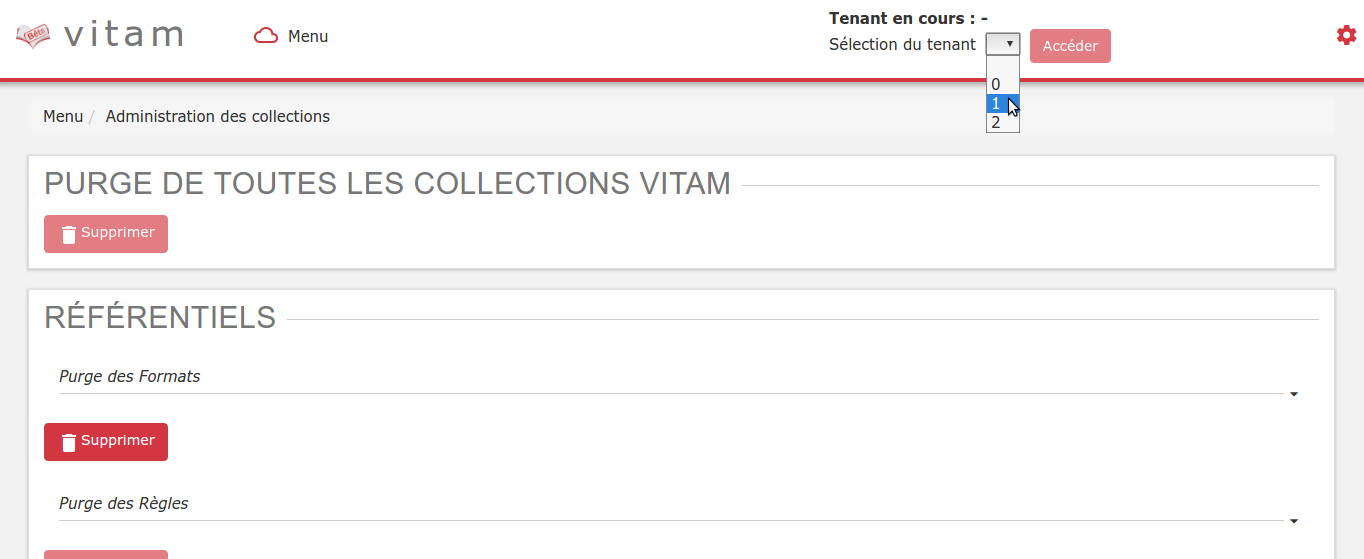
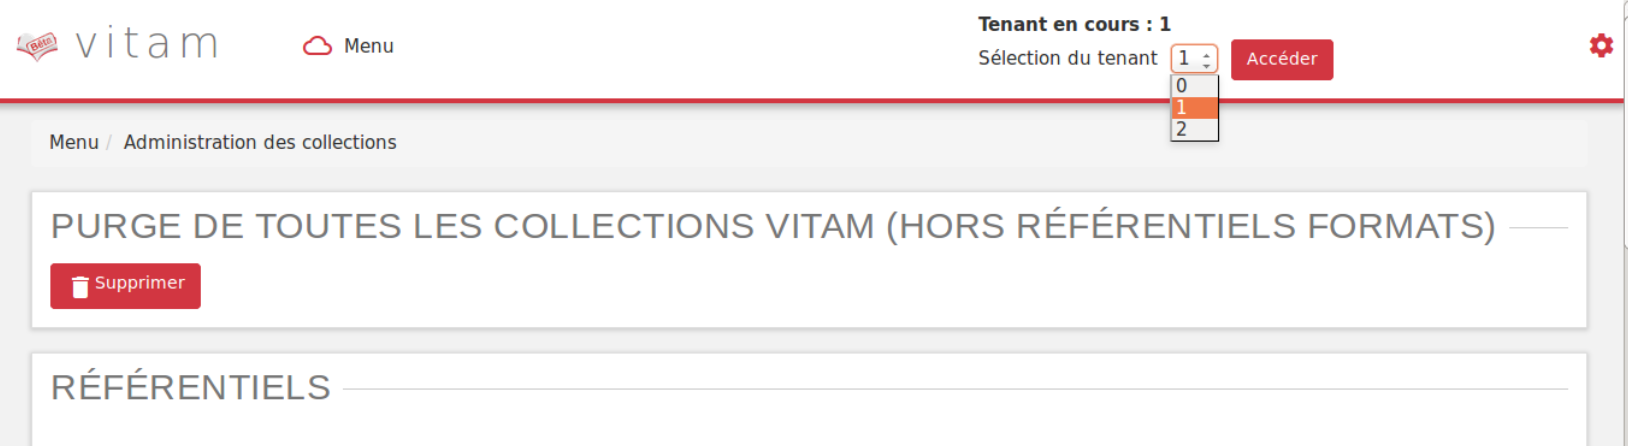
R4_manuel_recette_update

diff --git a/doc/fr/ihm-recette/collections.rst b/doc/fr/ihm-recette/collections.rst
@@ -1,7 +1,9 @@
 Administration des collections
 ##############################
 
-L'IHM de recette permet de supprimer certains ou tous les référentiels / journaux / objets dans le but de recetter VITAM ou de faire des tests variés pour éprouver la stabilité du système.
+L'administration des collections permet de supprimer certains ou tous les référentiels / journaux / objets dans le but de recetter VITAM ou de faire des tests variés pour éprouver la stabilité du système.
+
+L'utilisateur y accède par le menu, en cliquant sur "Administration des collections."
 
 .. image:: images/RECETTE_admin_collections.png
 
@@ -10,12 +12,12 @@ Action de suppression
 
 Chaque bouton "supprimer" est situé sous le titre de son action.
 Lors du clic sur un des boutons "supprimer", une fenêtre modale apparaît et demande de confirmer l'action de suppression.
-Deux choix sont proposés:
+Il existe deux types de purge:
 
 Purge de toutes les collections de la solution logicielle Vitam
 ===============================================================
 
-La purge de toutes les collections correspond à la suppression de tous les référentiels, de tous les journaux ainsi que de tous les objets et unités archivistiques à l'exeption du référentiel des formats.
+La purge de toutes les collections correspond à la suppression de tous les référentiels, de tous les journaux ainsi que de tous les objets et unités archivistiques à l'exception du référentiel des formats.
 Suite à cette opération, chaque IHM correspondante est vide de contenu et plus aucune archive n'est présente dans VITAM.
 
 Purge des référentiels
@@ -25,18 +27,20 @@ Il est possible de supprimer isolément un référentiel :
 
 * Un clic sur "Annuler", annule la demande de suppression, la fenêtre modale se ferme et rien ne se passe
 * Un clic sur "Vider", valide la demande de suppression, la fenêtre modale se ferme et la suppression est effectuée
+  
+.. image:: images/administration_purge_pop_up.png
 
 Une fois la suppression effectuée, un message de confirmation s'affiche dans une fenêtre modale.
 
+.. image:: images/administration_purge_pop_up_ok.png
+
 **Référentiel des formats**
 
-Le référentiel des formats de la solution logicielle Vitam est supprimé **pour tous les tenants**. L'IHM du référentiel de formats est vide de contenu. Sans référentiel de formats, aucun SIP ne pourra être importé dans le SAE.
-
+Le référentiel des formats de la solution logicielle Vitam est supprimé **pour tous les tenants**. L'IHM du référentiel de formats est vide de contenu. Sans référentiel de formats, aucun SIP ne pourra être importé dans la solution logicielle Vitam.
 
 **Référentiel des règles de gestion**
 
-Le référentiel des règles de gestion de la solution logicielle Vitam est supprimé. L'IHM des règles de gestion est vide de contenu. Sans référentiel des règles de gestion, aucun SIP ne pourra être importé dans le SAE.
-
+Le référentiel des règles de gestion de la solution logicielle Vitam est supprimé. L'IHM des règles de gestion est vide de contenu. Sans référentiel des règles de gestion, aucun SIP ne pourra être importé dans la solution logicielle Vitam.
 
 **Registre des fonds**
 
@@ -51,7 +55,7 @@ Purge des journaux
 Tous les journaux du cycle de vie des unités archivistiques sont supprimés de la solution logicielle Vitam. L'IHM de chaque "Journal du cycle de vie" d'une unité archivistique est vide de contenu.
 
 
-**Journal du cycle de vie** (objets)
+**Journal du cycle de vie** (groupes d'objets)
 
 Tous les journaux du cycle de vie des objets sont supprimés de la solution logicielle Vitam. L'IHM de chaque "Journal du cycle de vie" d'un objet est vide de contenu.
 
@@ -74,12 +78,10 @@ Tous les objets sont supprimés de la solution logicielle Vitam. L'IHM "Détail 
 Purge des contrats
 ==================
 
-La suppression de contrats est opérée par tenant. L'utilisateur doit donc sélectionner le tenant pour lequel il souhaite supprimer les contrats afin d'accéder à cette fonctionnalité.
-
 **Contrats d'accès**
 
-Tous les contrats d'accès du tenant sélectionné sont supprimés de la solution logicielle Vitam. L'IHM "Contrats d'accès" est vide de contenu.
+Tous les contrats d'accès sont supprimés de la solution logicielle Vitam. L'IHM "Contrats d'accès" est vide de contenu.
 
 **Contrats d'entrée**
 
-Tous les contrats d'entrée du tenant sélectionné sont supprimés de la solution logicielle Vitam. L'IHM "Contrats d'entrée" est vide de contenu.
+Tous les contrats d'entrée sont supprimés de la solution logicielle Vitam. L'IHM "Contrats d'entrée" est vide de contenu.

diff --git a/doc/fr/ihm-recette/fonctionnel.rst b/doc/fr/ihm-recette/fonctionnel.rst
@@ -25,7 +25,7 @@ La page est divisée en deux parties :
 **Boutons de gestion**
 
   * Bouton "Lancer les tests" : permet de rejouer les tests configurés. Ceci donnera lieu à la création d'un nouveau rapport.
-  * Bouton "Mise à jour référentiel" : permet de récupérer les derniers fichiers de configuration des tests depuis git (gestionnaire de sources). Ainsi, si un utilisateur a ajouté des tests et que ceux-ci ont été intégrés à git, le fait de cliquer sur ce bouton permettera de les prendre en compte au prochain clic sur le bouton "Lancer les Tests".
+  * Bouton "Mise à jour référentiel" : permet de récupérer les derniers fichiers de configuration des tests depuis "Git" (gestionnaire de sources). Ainsi, si un utilisateur a ajouté des tests et que ceux-ci ont été intégrés à git, le fait de cliquer sur ce bouton permettera de les prendre en compte au prochain clic sur le bouton "Lancer les Tests".
 
 **Résultat des derniers tests**
 
@@ -34,7 +34,7 @@ Les résultats de tests sont affichés dans un tableau à deux colonnes :
   * Rapport
   * Détail
     
-Chaque ligne représente le rapport issu d'une campagne de tests. La colonne rapport indique le nom du rapport. Celui-ci est constitué de la façon suivante : report_AAAAMMJJ_HHmmss.json. Ainsi le rapport correspondant à la dernière campagne de tests se trouve au-dessus de la liste. 
+Chaque ligne représente le rapport issu d'une campagne de tests. La colonne "Rapport" indique le nom du rapport. Celui-ci est constitué de la façon suivante : report_AAAAMMJJ_HHmmss.json. Ainsi le rapport correspondant à la dernière campagne de tests se trouve au-dessus de la liste. 
 
 La colonne détail affiche simplement la mention "accès au détail". 
 
@@ -62,7 +62,7 @@ La partie résumé comporte les trois indications suivantes :
 
 Chaque ligne du tableau représente le résultat d'un test. Celle-ci est sur fond vert lorsque le test est en succès, sur fond rouge lorsqu'il est en échec.
 
-Ci-après l'exemple de lignes correspondant à un test en succès.
+Ci-après l'exemple de lignes correspondant à un test en succès. Par défaut, les tests en échec s'affichent en premier.
 
 .. image:: images/RECETTE_detail_test_OK.png
 

diff --git a/doc/fr/ihm-recette/performance.rst b/doc/fr/ihm-recette/performance.rst
@@ -1,0 +1,41 @@
+Tests de performance
+####################
+
+Principe
+========
+
+Les tests de performance consistent à réaliser plusieurs fois l'entrée d'un SIP et d'en mesurer le temps. Ces entrées peuvent être réalisées par une ou plusieurs tâches parallèles. 
+
+Champs disponibles
+==================
+
+L'IHM est constituée de trois champs :
+
+* Liste des SIP : liste des SIP disponibles pour réaliser le test. Ces SIP sont ceux déposés dans le dépôt vitam-itest. Il n'est possible de sélectionner qu'un SIP à la fois.
+* Nb Thread : Permet de définir le nombre de tâches parallèles qui exécuteront les entrées.
+* Nb total : Permet de définir le nombre total d'entrées à réaliser.
+
+Un bouton "lancer" permet d’exécuter le test de performance.
+
+.. image:: images/performance_champs_disponibles.png
+
+Résultats
+=========
+
+Les résultats sont disponibles dans la section en bas de la page.
+
+Chaque ligne représente un test de performance. Le nom du test est formaté de la façon suivante : report_AAAAMMJJ_HHmmSS.csv. Le bouton de téléchargement permet de récupérer le fichier csv contenant les données du test.
+
+.. image:: images/performance_resultats.png
+
+Chaque ligne du csv représente une entrée. Les colonnes sont :
+
+* OperationID
+* PROCESS_SIP_UNITARY
+* SANITY_CHECK_SIP	
+* CHECK_CONTAINER	
+* STP_SANITY_CHECK_SIP	
+* STP_UPLOAD_SIP	
+* STP_INGEST_CONTROL_SIP
+ 
+La première contient le GUID de l'opération d'entrée. Les autres colonnes indique le temps en millisecondes qui a été nécessaire pour passer l'étape.

diff --git a/doc/fr/ihm-recette/recette.rst b/doc/fr/ihm-recette/recette.rst
@@ -7,7 +7,7 @@ Principes généraux
 Avertissement
 -------------
 
-L'IHM de recette est développée à des fins de tests uniquement.
+L'IHM de recette est développée à des fins de test uniquement.
 
 **Elle n'a aucunement vocation à être utilisée en production**
 
@@ -34,7 +34,7 @@ Titre des onglets
 
 Sur IHM recette, le titre des pages est celui du dernier nœud du fil d’Ariane, précédé du mot “Recette -”. Par exemple :
 
-* Recette - Test SOAP-UI
+* Recette - Test Fonctionnels
 * Recette - Administration des collections
 
 Sélection d'un tenant
@@ -43,7 +43,7 @@ Sélection d'un tenant
 Lors de la connexion, l'utilisateur n'est positionné sur aucun tenant.
 De ce fait, ses actions d'administration sont restreintes car celles-ci sont pour la plupart liées à un tenant. Par défaut, un certain nombre de boutons sont donc grisés et inactifs.
 
-Pour sélectionner un tenant, il suffit de choisir celui désiré dans le menu déroulant en haut à droite de l'écran et de valider sa sélection.
+Pour sélectionner un tenant, il suffit de choisir celui désiré dans le menu déroulant en haut à droite de l'écran et de valider sa sélection en cliquant sur le bouton "Accéder".
 
 .. image:: images/selection_tenant.png
 
@@ -65,6 +65,7 @@ Le menu de navigation contient les entrées suivantes :
   * Transfert (test de performance)
   * Sécurisation d'un journal des opérations
   * Tests fonctionnels
+  * Tests requêtes DSL
 
 .. image:: images/RECETTE_navigation.png
 

diff --git a/doc/fr/ihm-recette/securisation.rst b/doc/fr/ihm-recette/securisation.rst
@@ -8,9 +8,7 @@ Lancer une opération de sécurisation
 
 L'interface de lancement est accessible par le menu : Menu > Sécurisation du journal des opérations
 
-L'interface contient simplement un bouton "Générer le journal des opérations". Au clic sur ce bouton, le système va lancer l'opération de sécurisation des journaux. Elle prendra en compte tous les journaux du dernier créé au dernier non sécurisé.
-
-Il est également possible d'afficher le JSON de résultat en cliquant sur le lien nommé "Lien vers les résulstats Json". Le fichier apparait en plein écran et il est possile de l'enregistrer.
+L'interface contient simplement un bouton "Générer le journal des opérations". Au clic sur ce bouton, le système va lancer l'opération de sécurisation des journaux. Elle prendra en compte tous les journaux du dernier créé au dernier non sécurisé. Un message s'affiche alors sur l'écran précisant le succès de l'opération.
 
 .. image:: images/RECETTE_lancer_secu.png
 
@@ -35,6 +33,6 @@ Il contient les fichiers suivants :
 Journalisation des opérations de sécurisation
 =============================================
 
-La sécurisation des journaux des opérations donne lieu à la création d'un journal des opérations de type TRACEABILITY. 
+La sécurisation des journaux des opérations donne lieu à la création d'un journal des opérations de type TRACEABILITY, consultable depuis l'IHM Démo. 
 
 Ces journaux sont créés par tenant.

diff --git a/doc/fr/ihm-recette/dsl.rst b/doc/fr/ihm-recette/dsl.rst
@@ -14,7 +14,7 @@ Champs disponibles
 
 **Collection** : champ obligatoire. Liste permettant de sélectionner la collection sur laquelle la requête va être exécutée.
 
-**Action** : champ obligatoire. Liste permettant de sélectionner le type d'action à effectuer. 
+**Action** : champ obligatoire. Liste permettant de sélectionner le type d'action à effectuer. Actuellement, il n'est possible de sélectionner que "Rechercher", sauf pour la collection "Contexte" qui a également l'option "Mise à jour".
 
 **Identifiant** : champs optionnel. Permet de renseigner le GUID de l'objet recherché.
 

diff --git a/doc/fr/ihm-recette/index.rst b/doc/fr/ihm-recette/index.rst
@@ -7,6 +7,7 @@
 
    recette.rst
    collections.rst
+   performance.rst
    securisation.rst
    fonctionnel.rst
    dsl.rst
